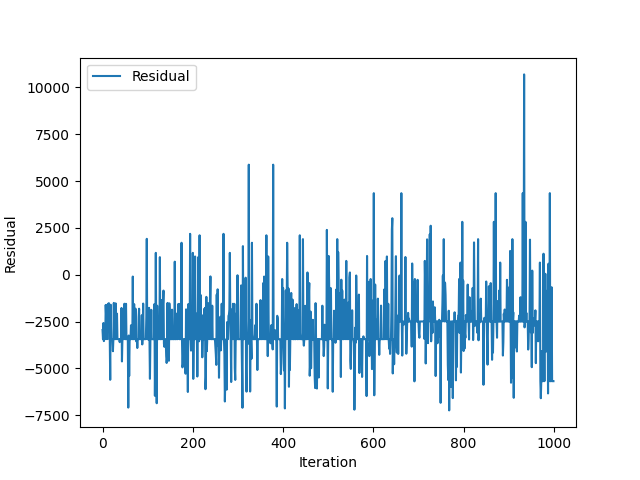
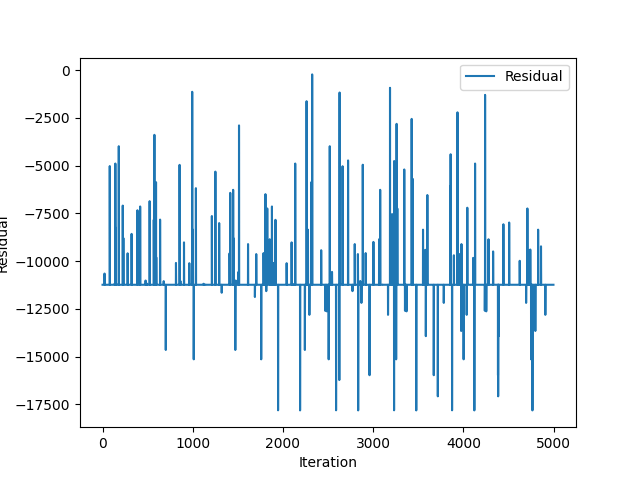
final

diff --git a/2d_gas.py b/2d_gas.py
@@ -1,4 +1,3 @@
-import random
 import math
 import numpy as np
 from tqdm import tqdm as log_progress
@@ -29,15 +28,36 @@ class GasSimulation:
         self.dir_path = 'results'
         self.num_steps = num_steps
         self.create_gif = create_gif
+        self.Kb = 1.380649*10**-23
+        self.pressure_list = []
+        self.residual_list = []
+        
+
+
+######################                 UTILS FUNCTIONS             #############################################
+        
+    def propeties(self):
+        self.energy = sum(0.5*self.m*np.linalg.norm(particle.V)**2 for particle in self.particles)  
+        self.temperature = self.energy/(self.N*self.Kb)
+        
+        
+    def residual(self):
+        rhs = self.pressure*self.L**2                                 
+        lhs = self.N*self.Kb*self.temperature
+        self.residual_list.append(rhs-lhs)
+    
+    
+    
+########################         SIMULATION FUNCTIONS           ###########################################
         
 
     def initialize_particles(self):
         print('Creating particles')
         existing_positions = set()
         while len(self.particles) < self.N:
-            x = random.uniform(self.r * self.V0 * self.dt, self.L - self.r * self.V0 * self.dt)
-            y = random.uniform(self.r * self.V0 * self.dt, self.L - self.r * self.V0 * self.dt)
-            theta = random.uniform(0, 2 * math.pi)
+            x = np.random.uniform(self.r * self.V0 * self.dt, self.L - self.r * self.V0 * self.dt)
+            y = np.random.uniform(self.r * self.V0 * self.dt, self.L - self.r * self.V0 * self.dt)
+            theta = np.random.uniform(0, 2 * math.pi)
             vx = self.V0 * math.cos(theta)
             vy = self.V0 * math.sin(theta)
             X = np.array([x, y])
@@ -45,15 +65,16 @@ class GasSimulation:
             particle = Particle(X, V, self.r, self.m)
 
             # Check for intersections with existing particles using set
-            is_valid = all(
-                math.sqrt(np.sum((p.X - particle.X) ** 2)) >= 2 * self.r for p in existing_positions
-            )
+            is_valid = all(math.sqrt(np.sum((p.X - particle.X) ** 2)) >= 2 * self.r for p in existing_positions)
 
             if is_valid:
                 self.particles.append(particle)
                 existing_positions.add(particle)
 
         print('Particles Created')
+        
+        
+        
 
     def collisions_particles(self):
         # Create arrays of particle positions and velocities
@@ -73,6 +94,8 @@ class GasSimulation:
             q = -2 * (self.m ** 2 / (2 * self.m)) * (np.dot((particle1.V - particle2.V), r) * r)
             particle1.V += q / self.m
             particle2.V -= q / particle2.m
+            
+                   
 
     def collisions_walls(self):
         # Create arrays of particle positions
@@ -81,60 +104,40 @@ class GasSimulation:
         # Find particles hitting the walls
         hitting_walls = np.argwhere(
             (positions[:, 0] <= self.r) | (positions[:, 0] + self.r >= self.L) |
-            (positions[:, 1] - self.r <= 0) | (positions[:, 1] + self.r >= self.L)
-        ).flatten()
+            (positions[:, 1] - self.r <= 0) | (positions[:, 1] + self.r >= self.L)).flatten()
 
         # Update velocities of particles hitting walls
-        momentum = 0
         for i in hitting_walls:
+            momentum_change = 0
             particle = self.particles[i]
-            momentum = 0 
             if particle.X[0] <= particle.r or particle.X[0] + particle.r >= self.L:
                 particle.V[0] = -particle.V[0]
-                momentum += 2*self.m*abs(particle.V[0])
+                momentum_change += self.m * abs(particle.V[0])*2
             if particle.X[1] - particle.r <= 0 or particle.X[1] + particle.r >= self.L:
                 particle.V[1] = -particle.V[1]
-                momentum += 2*self.m*abs(particle.V[1])
-        presssure = momentum/(4*self.L*self.dt)
+                momentum_change += self.m * abs(particle.V[1])*2
+
+        pressure = momentum_change/(self.dt*4*self.L)
+        self.pressure_list.append(pressure)
         
-        return presssure
+        
 
     def update_position(self):
         for particle in self.particles:
             particle.X += particle.V * self.dt
-            
-    def temperature(self):
-        total_kinetic_energy  = sum(0.5*self.m*np.linalg.norm(particle.V)**2 for particle in self.particles)
-        avarege_kinetic_energy = total_kinetic_energy/self.N
-        temperature = avarege_kinetic_energy/(1.380649*10**-23)
-        return temperature
     
-    
-    def residual(self,P,T):
-        rhs = P*self.L**2
-        lhs = self.N*1.380649*10**-23*T
-        residual = rhs-lhs
-        return residual
-    
-    
+
     def simulate(self):
         self.initialize_particles()
+        self.propeties()
         pbar = log_progress(range(self.num_steps))
         frames = []
-        residual_list = []
-        pressure_list = []
-        temperature_list = []
 
         for _ in pbar:
             self.collisions_particles()
-            pressure = self.collisions_walls()
-            pressure_list.append(pressure)
-            temperature = self.temperature()
-            temperature_list.append(temperature)
-            residual_list.append(self.residual(pressure,temperature))
-            
-            # self.collisions_walls()
+            self.collisions_walls()
             self.update_position()
+            self.residual()
 
             if self.create_gif:
                 frame = self.create_frame_image()
@@ -142,11 +145,54 @@ class GasSimulation:
 
         if self.create_gif:
             self.save_animation(frames)
+            
+            
+        self.post_processing()
+        
+    
+    
+  #####################################   POST PROCESSING FUNCTIONS   #########################################  
+    
+    
+    def post_processing(self):
+        print(f'Pressure = {np.average(self.pressure_list)}[Pa]')
+        print(f'Energy = {self.energy}[J]')
+        print(f'Temperature = {self.temperature}[K]')
+        print(f'Residual = {np.average(self.residual_list)}[-]')
+        self.plot_velocity()
+        self.plot_residual()
+        
+        
 
-        self.post_processing(pressure_list,temperature_list,residual_list)
+    def plot_velocity(self):
+        velocities = [np.linalg.norm(particle.V) for particle in self.particles]
+        
+        fig, ax = plt.subplots()
+        sns.histplot(velocities, stat='density', label='Histogram Simulation', color='#9dbbeb', edgecolor='#e9f2f1')
+        sns.kdeplot(velocities,color='k',label='Line Simulation')
+        params = maxwell.fit(velocities)
+        x = np.linspace(0, np.max(velocities), 100)
+        y = maxwell.pdf(x, *params)
+        sns.lineplot(x=x, y=y, color='b', label='Fitted Distribution', ax=ax)
+        ax.grid(True)
+        ax.set_xlabel('Velocity')
+        ax.set_ylabel('Density')
+        ax.legend()
+        fig.savefig(os.path.join(self.dir_path, 'velocity_distribution.png'))
         
         
-        
+    def plot_residual(self):
+        fig,ax = plt.subplots()
+        plt.plot(self.residual_list,label='Residual')
+        ax.set_xlabel('Iteration')
+        ax.set_ylabel('Residual')
+        ax.legend()
+        fig.savefig(os.path.join(self.dir_path, 'residual.png'))
+
+
+
+
+############################       GIF ANIMATION FUNCTIONS                         ##########################
 
     def create_frame_image(self):
         scale_factor = 40
@@ -172,46 +218,21 @@ class GasSimulation:
         frames[0].save(gif_path, save_all=True, append_images=frames[1:], optimize=False, duration=100, loop=0)
         print(f"GIF animation saved as '{gif_path}'")
         
-    def post_processing(self,pressure,temperature,residual):
-        print(f'Pressure = {np.average(pressure)}[Pa]')
-        print(f'Temperature = {np.average(temperature)}[K]')
-        print(f'Residual = {np.average(residual)}[-]')
-        self.plot_velocity()
-        self.plot_residual(residual)
-
-    def plot_velocity(self):
-        velocities = [np.linalg.norm(particle.V) for particle in self.particles]
-        
-        fig, ax = plt.subplots()
-        sns.histplot(velocities, stat='density', label='Histogram Simulation', color='#9dbbeb', edgecolor='#e9f2f1')
-        sns.kdeplot(velocities,color='k',label='Line Simulation')
-        params = maxwell.fit(velocities)
-        x = np.linspace(0, np.max(velocities), 100)
-        y = maxwell.pdf(x, *params)
-        sns.lineplot(x=x, y=y, color='b', label='Fitted Distribution', ax=ax)
-        ax.grid(True)
-        ax.set_xlabel('Velocity')
-        ax.set_ylabel('Density')
-        ax.legend()
-        fig.savefig(os.path.join(self.dir_path, 'velocity_distribution.png'))
-        
-    def plot_residual(self,residual):
-        fig,ax = plt.subplots()
-        plt.plot(residual,label='Residual')
-        ax.set_xlabel('Iteration')
-        ax.set_ylabel('Residual')
-        ax.legend()
-        fig.savefig(os.path.join(self.dir_path, 'residual.png'))
+###################################################
 
 
-L = 6  # Box volume (L^2)
-N = 150  # Number of particles
+
+#######    RUN SIMULATION    ########################
+
+L = 5  # Box volume (L^2)
+N = 100  # Number of particles
 m = 1  # Particle mass
 r = 0.05  # Particle radius
-V0 = 10  # Initial velocity
-dt = 0.005  # Time step
-num_steps = 1000  # Number of simulation steps
+V0 = 5  # Initial velocity
+dt = 0.001  # Time step
+num_steps = 5000  # Number of simulation steps
 create_gif = False  # Set to True to create the GIF animation
 
 simulation = GasSimulation(L, N, m, r, V0, dt, num_steps, create_gif)
 simulation.simulate()
+
